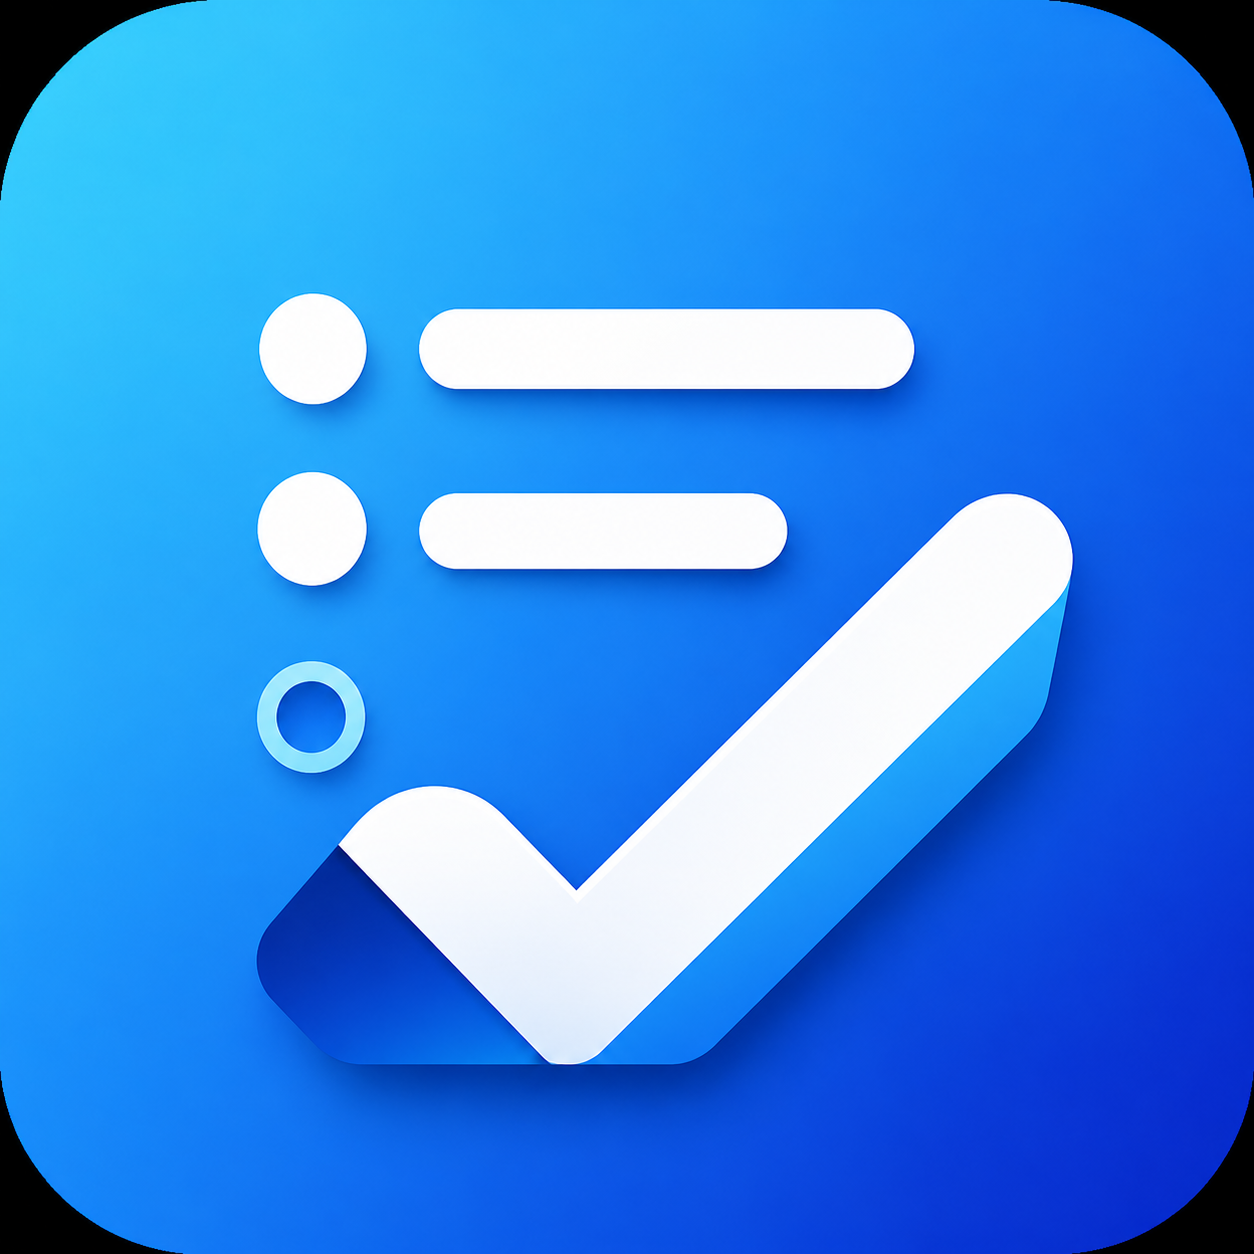
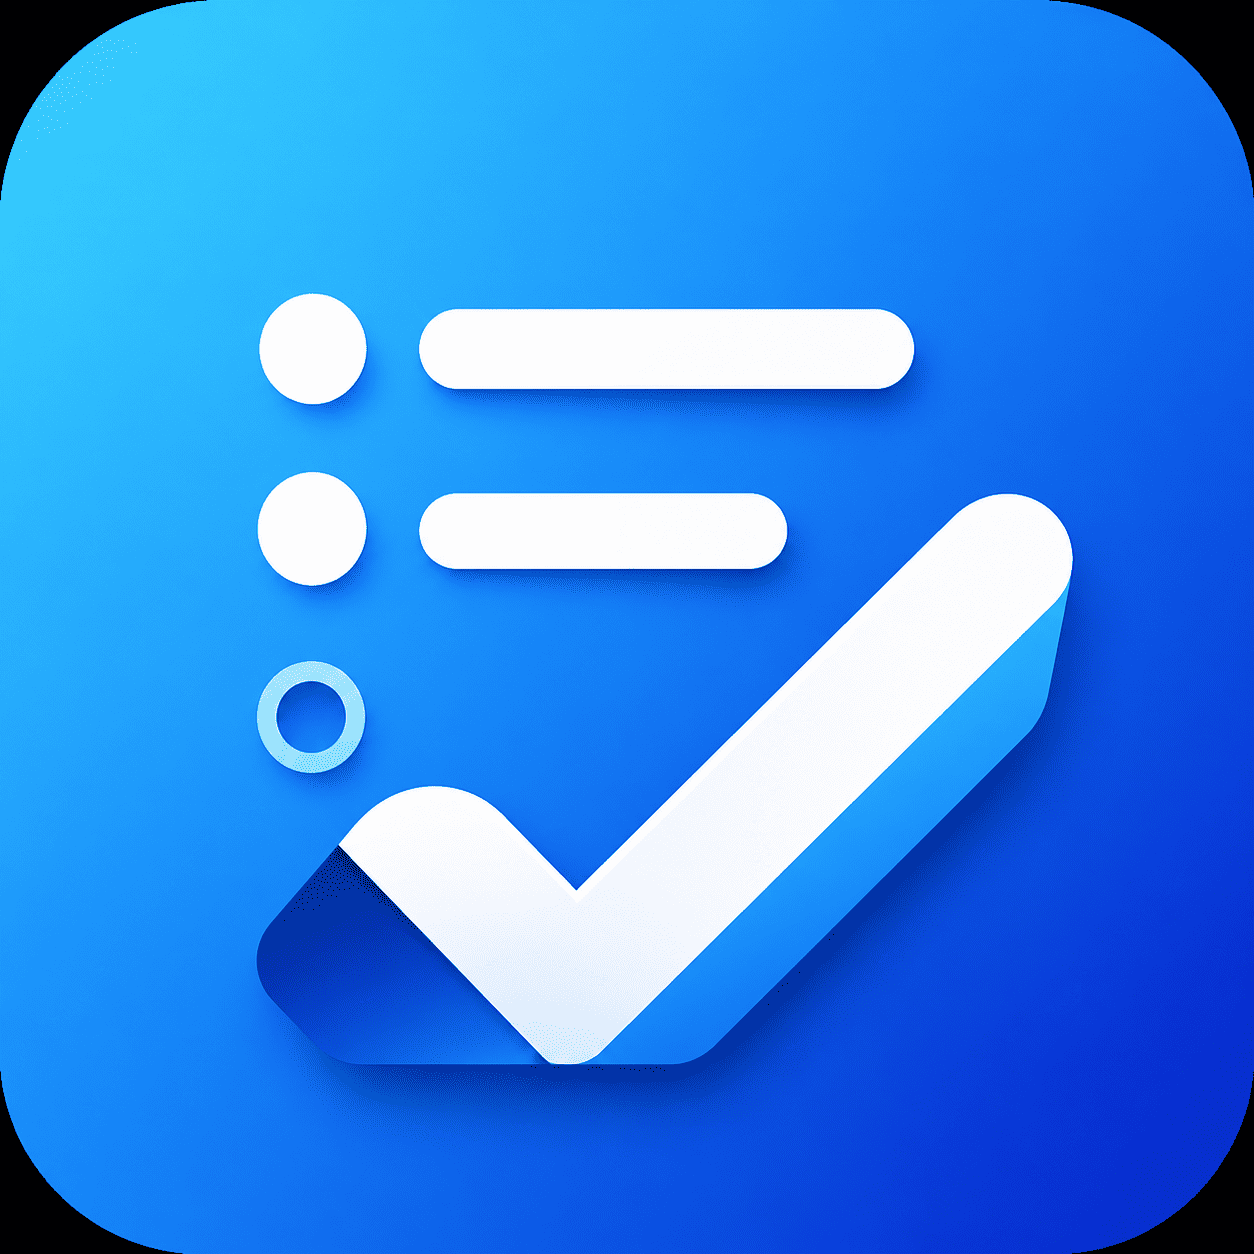
UX改善: フィルタボタンのタップ反応改善・解除ボタン常時表示・選択モードUI・アイコン軽量化
- フィルタ・一括ボタンに -webkit-tap-highlight-color と transition 短縮(.15s→.08s)でタップ即反応
- フィルタ解除(×)ボタンを常時表示（未使用時はdisabled状態で薄く表示）
- 選択モードの「全選択」「全解除」を「すべて選択」「すべて解除」にラベル改善
- icon-512.png を軽量版に差し替え(1.2MB→205KB、約6分の1)

diff --git a/index.html b/index.html
@@ -567,9 +567,10 @@ html.dark .del-btn{box-shadow:0 1px 3px rgba(0,0,0,.3),inset 0 1px 0 rgba(255,25
 /* Toggle completed button */
 .toggle-btn-wrap{display:flex;align-items:center;justify-content:flex-start;padding:8px 0 8px 0}
 #task-filters{background:var(--bg);padding:4px 16px;display:flex;align-items:center;gap:4px;flex-wrap:wrap;flex-shrink:0;border-bottom:1px solid var(--border)}
-.toggle-completed-btn{display:inline-flex;align-items:center;gap:5px;padding:5px 16px;border-radius:20px;font-size:12px;font-weight:500;border:1.5px solid var(--border);background:none;cursor:pointer;color:var(--text3);transition:all .15s;touch-action:manipulation}
+.toggle-completed-btn{display:inline-flex;align-items:center;gap:5px;padding:5px 16px;border-radius:20px;font-size:12px;font-weight:500;border:1.5px solid var(--border);background:none;cursor:pointer;color:var(--text3);transition:background .08s,color .08s,border-color .08s;touch-action:manipulation;-webkit-tap-highlight-color:rgba(0,0,0,0);user-select:none}
 .toggle-completed-btn.active{border-color:var(--accent);color:var(--accent);background:var(--accent-bg)}
 .toggle-completed-btn:hover{border-color:var(--text2);color:var(--text2)}
+.toggle-completed-btn:active{opacity:.7}
 /* Search clear button */
 #srch-clear{display:none;background:none;border:none;cursor:pointer;color:var(--text3);padding:0;width:18px;height:18px;align-items:center;justify-content:center;border-radius:3px;flex-shrink:0;font-size:13px;line-height:1}
 #srch-clear.visible{display:flex}
@@ -699,9 +700,10 @@ html.dark .del-btn{box-shadow:0 1px 3px rgba(0,0,0,.3),inset 0 1px 0 rgba(255,25
 /* 一括編集 */
 .trow.bulk-sel{background:var(--accent-bg)!important;outline:1.5px solid var(--accent);border-radius:7px}
 /* フィルタ・並び替えアイコンボタン */
-.tf-icon-btn{display:inline-flex;align-items:center;justify-content:center;width:32px;height:28px;border-radius:6px;border:1.5px solid var(--border);background:none;cursor:pointer;color:var(--text3);transition:all .15s;touch-action:manipulation;flex-shrink:0}
+.tf-icon-btn{display:inline-flex;align-items:center;justify-content:center;width:32px;height:28px;border-radius:6px;border:1.5px solid var(--border);background:none;cursor:pointer;color:var(--text3);transition:background .08s,color .08s,border-color .08s;touch-action:manipulation;-webkit-tap-highlight-color:rgba(0,0,0,0);user-select:none;flex-shrink:0}
 .tf-icon-btn:hover{border-color:var(--text2);color:var(--text2)}
 .tf-icon-btn.active{border-color:var(--accent);color:var(--accent);background:var(--accent-bg)}
+.tf-icon-btn:active{opacity:.7}
 /* フィルタ・並び替えポップアップ */
 .tf-popup{position:fixed;z-index:400;background:var(--surface);border:1px solid var(--border);border-radius:10px;box-shadow:0 4px 24px rgba(0,0,0,.18);padding:5px;min-width:180px}
 .tf-popup-item{display:flex;align-items:center;justify-content:space-between;gap:8px;padding:9px 12px;border-radius:6px;cursor:pointer;font-size:13px;color:var(--text);transition:background .12s;touch-action:manipulation;user-select:none}
@@ -2691,6 +2693,8 @@ function renderTaskFilters(){
   tf.style.display='flex';
   if(S.selectMode){
     tf.innerHTML='<span style="font-size:12px;font-weight:600;color:var(--text);white-space:nowrap;flex-shrink:0;padding:0 4px">'+S.selectedIds.length+'件選択</span>'
+      +'<button class="toggle-completed-btn" data-a="bulk-sel-all">すべて選択</button>'
+      +'<button class="toggle-completed-btn" data-a="bulk-desel-all">すべて解除</button>'
       +'<button class="toggle-completed-btn" data-a="bulk-edit" data-field="startAt">開始日</button>'
       +'<button class="toggle-completed-btn" data-a="bulk-edit" data-field="dueAt">期限</button>'
       +'<button class="toggle-completed-btn" data-a="bulk-edit" data-field="tags">タグ</button>'
@@ -2707,17 +2711,27 @@ function renderTaskFilters(){
   const ICON_FILTER='<svg width="15" height="15" viewBox="0 0 24 24" fill="none" stroke="currentColor" stroke-width="2.2"><polygon points="22 3 2 3 10 12.46 10 19 14 21 14 12.46 22 3"/></svg>';
   const ICON_SORT='<svg width="15" height="15" viewBox="0 0 24 24" fill="none" stroke="currentColor" stroke-width="2.2"><path d="M8 6h13M8 12h9M8 18h5"/><polyline points="3 6 3 3 6 3"/><polyline points="3 18 3 21 6 21"/></svg>';
   tf.innerHTML='<button class="tf-icon-btn'+(filterOn?' active':'')+'" data-a="tog-filter-btn" title="フィルタ">'+ICON_FILTER+'</button>'
+    +'<button class="tf-icon-btn'+(filterOn?' active':'')+'" data-a="clear-filters" title="フィルタをすべて解除" style="font-size:13px;font-weight:700;'+(filterOn?'color:var(--p1);border-color:var(--p1)':'color:var(--text3);opacity:.4;pointer-events:none')+'">×</button>'
     +'<button class="tf-icon-btn'+(sortOn?' active':'')+'" data-a="tog-sort-btn" title="並び替え">'+ICON_SORT+'</button>'
     +'<button class="toggle-completed-btn'+(S.selectMode?' active':'')+'" data-a="tog-select-mode" style="margin-left:auto">一括</button>';
 }
 
-function _closeTfPopups(){document.querySelectorAll('.tf-popup').forEach(p=>p.remove());}
+function _closeTfPopups(){document.querySelectorAll('.tf-popup,.tf-backdrop').forEach(p=>p.remove());}
 function _tfPopupPos(pop,btn){
   const r=btn.getBoundingClientRect();
   const pw=200;
   let left=r.left;
   left=Math.max(8,Math.min(left,window.innerWidth-pw-8));
   Object.assign(pop.style,{position:'fixed',top:(r.bottom+6)+'px',left:left+'px',width:pw+'px'});
+}
+function _tfBackdrop(){
+  const bd=document.createElement('div');
+  bd.className='tf-backdrop';
+  Object.assign(bd.style,{position:'fixed',inset:'0',zIndex:'398'});
+  bd.addEventListener('touchstart',_closeTfPopups,{passive:true});
+  bd.addEventListener('mousedown',_closeTfPopups);
+  document.body.appendChild(bd);
+  return bd;
 }
 function openFilterPopup(btn){
   if(document.querySelector('.tf-popup.filter-pop')){_closeTfPopups();return;}
@@ -2741,11 +2755,8 @@ function openFilterPopup(btn){
           +'<span class="tf-popup-check'+(S.filterTagId===t.id?' on':'')+'">✓</span>'
         +'</div>').join('')
       :'');
+  _tfBackdrop();
   document.body.appendChild(pop);_tfPopupPos(pop,btn);
-  setTimeout(()=>{
-    function h(e){if(!pop.contains(e.target)&&e.target!==btn){_closeTfPopups();document.removeEventListener('click',h);document.removeEventListener('touchend',h);}}
-    document.addEventListener('click',h);document.addEventListener('touchend',h);
-  },0);
 }
 function openSortPopup(btn){
   if(document.querySelector('.tf-popup.sort-pop')){_closeTfPopups();return;}
@@ -2755,11 +2766,8 @@ function openSortPopup(btn){
   pop.innerHTML=opts.map(([v,l])=>'<div class="tf-popup-item" data-a="spop-sort" data-val="'+v+'">'
     +'<span>'+l+'</span><span class="tf-popup-check'+(S.sort===v?' on':'')+'">✓</span>'
   +'</div>').join('');
+  _tfBackdrop();
   document.body.appendChild(pop);_tfPopupPos(pop,btn);
-  setTimeout(()=>{
-    function h(e){if(!pop.contains(e.target)&&e.target!==btn){_closeTfPopups();document.removeEventListener('click',h);document.removeEventListener('touchend',h);}}
-    document.addEventListener('click',h);document.addEventListener('touchend',h);
-  },0);
 }
 
 function renderRow(task){
@@ -3878,6 +3886,9 @@ else if(a==='sel-edit'){
   else if(a==='tog-sort-start'){S.sort=S.sort==='startAt'?'order':'startAt';renderContent()}
   else if(a==='tog-filter-btn'){openFilterPopup(el);}
   else if(a==='tog-sort-btn'){openSortPopup(el);}
+  else if(a==='clear-filters'){S.hideNotStarted=false;S.showCompleted=false;S.filterTagId=null;renderTaskFilters();renderContent();}
+  else if(a==='bulk-sel-all'){S.selectedIds=getTasks().filter(t=>!t.parentTaskId).map(t=>t.id);renderTaskFilters();renderContent();}
+  else if(a==='bulk-desel-all'){S.selectedIds=[];renderTaskFilters();renderContent();}
   else if(a==='fpop-toggle'){
     const key=el.dataset.key;
     if(key==='hideNotStarted')S.hideNotStarted=!S.hideNotStarted;
